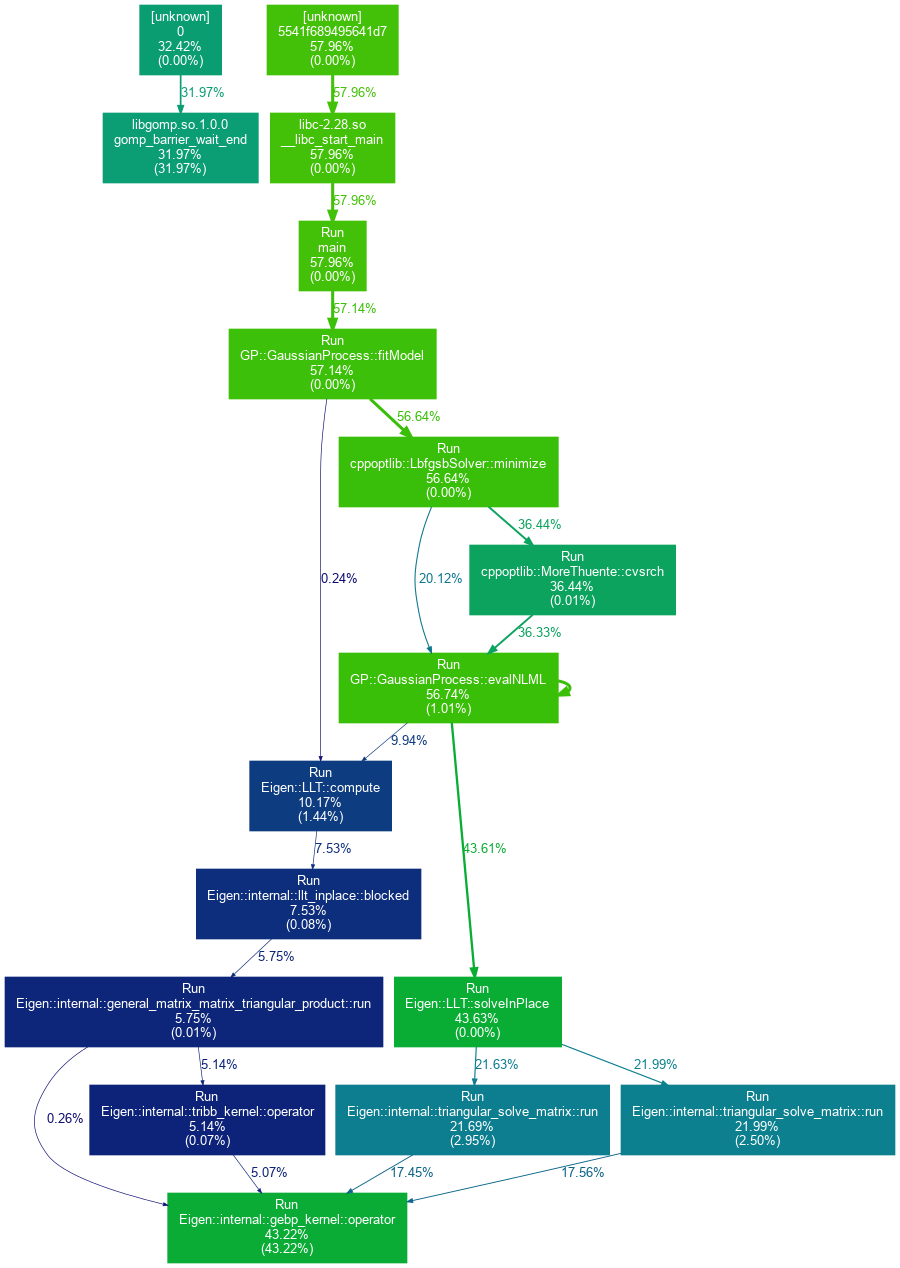
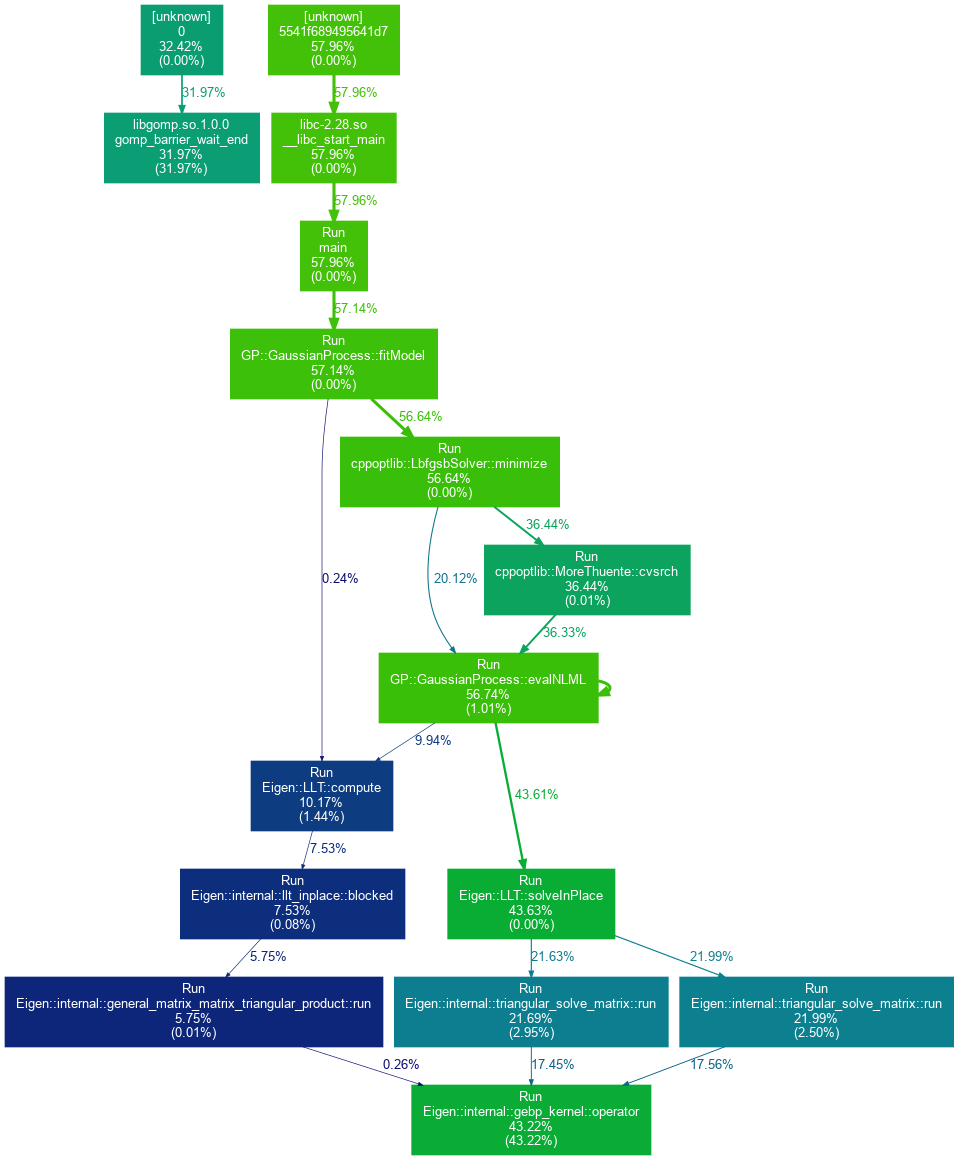
Update profilier graph

Changed region(s): [[0.0, 0.0, 0.9956, 1.0]]

diff --git a/README.md b/README.md
@@ -134,7 +134,7 @@ __Note:__ This will take _much_ more time to run than the standard execution tim
 A graph visualization of the node-wise executation times in the program can then be created via:
 ```
 perf record -g -- ./Run
-perf script | c++filt | gprof2dot -s -n 5.0 -f perf | dot -Tpng -o utils/profilier_output.png
+perf script | c++filt | gprof2dot -s -n 5.25 -f perf | dot -Tpng -o utils/profilier_output.png
 ```
 [//]: # (COMMENT: perf script | c++filt | python /usr/lib/python3.7/site-packages/gprof2dot.py -f perf | dot -Tpng -o output.png)
 
